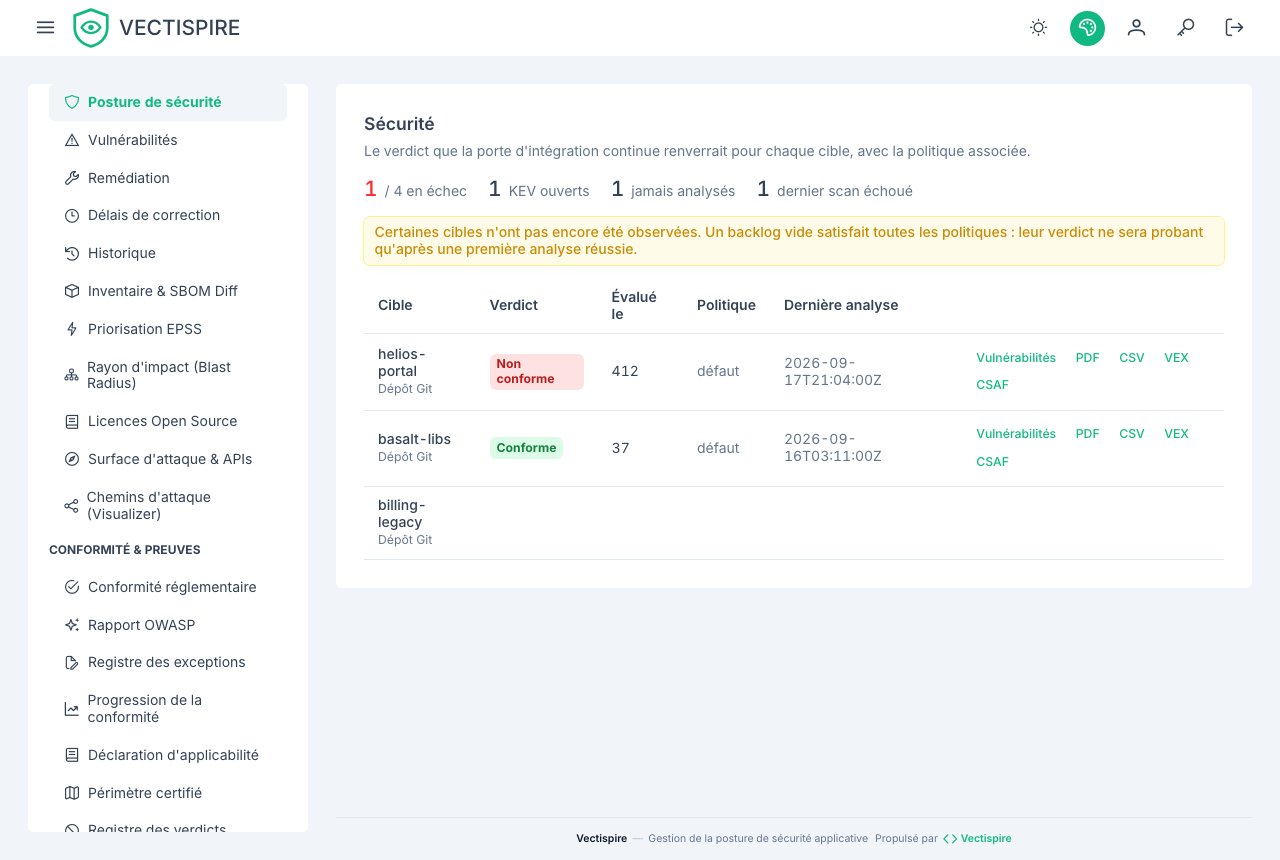
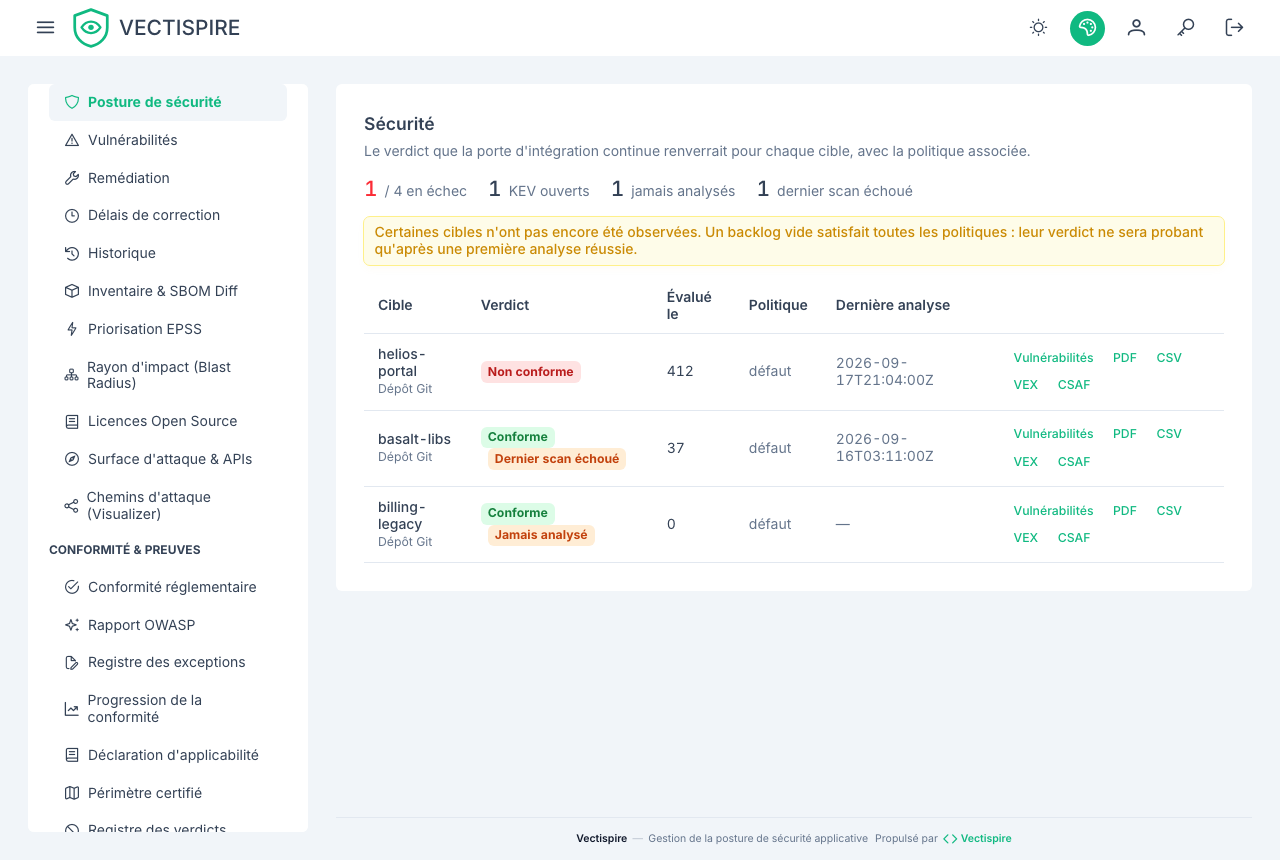
docs(screens): containers, quality and gate policies — and a fixture that lied
Three screens the documentation described and never showed. Each fixture is built
around the one case the screen exists to handle, because a capture of the easy case
photographs the argument out of the page:

- **containers** — one image pinned by digest, because the shortening only exists for
  that case: sixty characters of hexadecimal push every other field off the card.
- **code quality** — coverage is `PARTIAL`, so the banner is visible. A quality backlog
  is only as complete as the languages somebody wrote rules for, and TypeScript having
  none is what a reader should learn here rather than discover later. Reached by
  clicking the backlog total, because the sidebar does not offer this screen.
- **gate policies** — the stored policy departs from the built-in on two flags. Showing
  both is the only place "not set" and "set to the same thing" can be told apart.

**The security overview fixture was wrong, and the capture showed it.** It sent
`NEVER_SCANNED` and invented `FRESH` and `STALE`; the server lowercases every constant
and has only four. `SecurityOverviewView` says so in as many words, and warns that a
client comparing against `never_scanned` matches nothing and renders its fallback — it
did, and the never-scanned target was published badged "scan in progress". The fixture
also sent `verdict: null`, which no target ever carries: the server evaluates a policy
against an empty backlog rather than skipping it, and the row that received null
[…]

diff --git a/vectispire-angular/e2e/screens.spec.ts b/vectispire-angular/e2e/screens.spec.ts
@@ -523,30 +523,170 @@ test.describe('documentation screenshots', () => {
             await shoot(page, 'repositories', locale);
         });
 
+        test('containers', async ({ page }, testInfo) => {
+            const locale = edition(testInfo.project.name);
+            await stubEverything(page);
+            // One image pinned by digest, because the shortening only exists for that case: sixty
+            // characters of hexadecimal push every other field off the card, and a capture of
+            // three tag-pinned images would show a screen that never has to deal with it.
+            await stub(page, '**/api/v1/containers*', [
+                { id: 3, imageName: 'registry.example/api', tag: '1.4',
+                  reference: 'registry.example/api:1.4', registry: 'registry.example',
+                  openIssues: 58, tier: 'TIER_1_MISSION_CRITICAL',
+                  scanIntervalMinutes: 720, scanCron: null, requiredAgentLabel: null,
+                  lastScheduledScanAt: '2026-09-17T18:00:00Z',
+                  lastScan: { id: 32, status: 'completed', createdAt: '2026-09-17T18:06:00Z', error: null } },
+                { id: 4, imageName: 'registry.example/nginx-edge', tag: 'sha256:9f2c1d4b7a03e85f6c2b9d10a47e3f8521bc60d9e7a4f31682c5b0ad9e14f7c3',
+                  reference: 'registry.example/nginx-edge@sha256:9f2c1d4b7a03e85f6c2b9d10a47e3f8521bc60d9e7a4f31682c5b0ad9e14f7c3',
+                  registry: 'registry.example', openIssues: 0, tier: 'TIER_2_BUSINESS_OPERATIONAL',
+                  scanIntervalMinutes: null, scanCron: '0 4 * * *', requiredAgentLabel: 'dmz',
+                  lastScheduledScanAt: '2026-09-18T04:00:00Z',
+                  lastScan: { id: 35, status: 'completed', createdAt: '2026-09-18T04:03:00Z', error: null } },
+                { id: 5, imageName: 'registry.example/batch-runner', tag: '2026.09',
+                  reference: 'registry.example/batch-runner:2026.09', registry: 'registry.example',
+                  openIssues: 12, tier: 'TIER_3_INTERNAL',
+                  scanIntervalMinutes: null, scanCron: null, requiredAgentLabel: null,
+                  lastScheduledScanAt: null,
+                  lastScan: { id: 31, status: 'failed', createdAt: '2026-09-16T11:20:00Z',
+                              error: 'manifest unknown' } }
+            ]);
+            await enterApp(page, locale);
+            await openScreen(page, '/containers');
+
+            await expect(page.getByText('registry.example/batch-runner').first()).toBeVisible({ timeout: 15_000 });
+            await shoot(page, 'containers', locale);
+        });
+
+        test('code quality', async ({ page }, testInfo) => {
+            const locale = edition(testInfo.project.name);
+            await stubEverything(page);
+            // **Partial coverage, not full.** The banner is the screen's one warning, and a capture
+            // taken over a covered estate would hide it: a quality backlog is only as complete as
+            // the languages somebody wrote rules for, and TypeScript having none is exactly the
+            // thing a reader should learn here rather than discover later.
+            await stub(page, '**/api/v1/rule-sets/coverage', {
+                state: 'PARTIAL', ruleFiles: 12,
+                languagesWithRules: ['java', 'python'],
+                ecosystemsInEstate: ['java', 'python', 'typescript'],
+                uncovered: ['typescript']
+            });
+            // The three tallies are deliberately top-heavy. "Eight rules account for most of the
+            // debt" is the framing this page exists for, and a flat distribution would illustrate
+            // the opposite of its argument.
+            await stub(page, '**/api/v1/quality/overview', {
+                openCount: 1432, ruleCount: 47, fileCount: 318,
+                topRules: [
+                    { label: 'java.lang.security.audit.formatted-sql-string', count: 212 },
+                    { label: 'python.lang.correctness.unchecked-subprocess', count: 164 },
+                    { label: 'java.lang.maintainability.dead-catch-block', count: 121 },
+                    { label: 'generic.secrets.hardcoded-token', count: 38 }
+                ],
+                topFiles: [
+                    { label: 'src/main/java/portal/LegacyQueryBuilder.java', count: 96 },
+                    { label: 'src/main/java/portal/ReportExporter.java', count: 71 },
+                    { label: 'scripts/migrate_accounts.py', count: 44 },
+                    { label: 'src/main/java/portal/AuditTrail.java', count: 22 }
+                ],
+                topTargets: [
+                    { label: 'helios-portal', count: 731 },
+                    { label: 'basalt-libs', count: 402 },
+                    { label: 'billing-legacy', count: 299 }
+                ]
+            });
+            await stub(page, '**/api/v1/dashboard', {
+                posture: { totalCount: 14, failingCount: 3, kevCount: 2, overdueCount: 5,
+                           neverScannedCount: 1, lastScanFailedCount: 1 },
+                backlogBySeverity: { CRITICAL: 4, HIGH: 12, MEDIUM: 31, LOW: 365 },
+                qualityTotal: 1432, failing: [], recentScans: []
+            });
+            await enterApp(page, locale);
+            // **Through the dashboard, because the sidebar does not offer this screen.** Quality
+            // is reached from the backlog card's quality total and from nowhere else, so a capture
+            // that clicked a menu entry would be asserting a route that no reader can take.
+            //
+            // And not through `openScreen`, because that link carries no `href`: written
+            // `routerLink="/quality"` rather than `[routerLink]="['/quality']"`, it navigates on
+            // click and renders no address. Clicking the total is what a reader does; the URL
+            // assertion below is what keeps this honest if the route is ever renamed.
+            await openScreen(page, '/dashboard');
+            await page.getByText('1432').first().click();
+            await expect(page).toHaveURL(/\/quality(\?|$)/, { timeout: 15_000 });
+
+            await expect(page.getByText('1432').first()).toBeVisible({ timeout: 15_000 });
+            await shoot(page, 'code-quality', locale);
+        });
+
+        test('gate policies', async ({ page }, testInfo) => {
+            const locale = edition(testInfo.project.name);
+            await stubEverything(page);
+            // **The stored policy departs from the built-in on two flags, and that is the point of
+            // the fixture.** Identical cards would photograph the screen's argument out of it:
+            // showing both is the only place "not set" and "set to the same thing" can be told
+            // apart, and a capture where they read alike demonstrates nothing.
+            await stub(page, '**/api/v1/gate/policies', {
+                policies: [
+                    { kind: 'global', target_id: null, target_name: null, version: 4,
+                      fail_on_severity: 'high', fail_on_kev: true, fixable_only: true,
+                      include_triaged: false, include_ai_review: false,
+                      fail_on_uncovered_languages: false,
+                      note: 'criticals in transitive dependencies were failing every build and teams had started bypassing the gate',
+                      created_by: 'c.moreau', created_at: '2026-08-02T09:12:00Z' },
+                    { kind: 'repository', target_id: 5, target_name: 'helios-portal', version: 2,
+                      fail_on_severity: 'medium', fail_on_kev: true, fixable_only: false,
+                      include_triaged: false, include_ai_review: false,
+                      fail_on_uncovered_languages: false,
+                      note: 'Tier 1 payment path, held above the estate bar for the quarter',
+                      created_by: 'c.moreau', created_at: '2026-09-04T16:40:00Z' }
+                ],
+                built_in: { kind: 'built-in', target_id: null, target_name: null, version: 0,
+                            fail_on_severity: 'high', fail_on_kev: true, fixable_only: false,
+                            include_triaged: false, include_ai_review: false,
+                            fail_on_uncovered_languages: false, note: null,
+                            created_by: null, created_at: null }
+            });
+            await enterApp(page, locale);
+            await openScreen(page, '/gate-policies');
+
+            await expect(page.getByText('helios-portal').first()).toBeVisible({ timeout: 15_000 });
+            await shoot(page, 'gate-policies', locale);
+        });
+
         test('security overview', async ({ page }, testInfo) => {
             const locale = edition(testInfo.project.name);
             await stubEverything(page);
             // The two cases no other screen names: a target never scanned, and one whose last scan
             // failed. Both are green everywhere else, which is the point of this page.
+            //
+            // **Shaped as `SecurityOverviewView` writes it, which the first version was not.**
+            // That fixture sent `NEVER_SCANNED` and invented `FRESH` and `STALE`; the server
+            // lowercases every constant and has only four — the view class says so in as many
+            // words, and warns that a client comparing against `never_scanned` matches nothing
+            // and renders its fallback. It did: the never-scanned target was captured badged
+            // "scan in progress". It also sent `verdict: null`, which no target ever carries —
+            // the server evaluates a policy against an empty backlog rather than skipping it —
+            // and the row that received it rendered as a line of blanks.
             await stub(page, '**/api/v1/security/overview*', {
                 totalCount: 4, failingCount: 1, kevCount: 1,
                 neverScannedCount: 1, lastScanFailedCount: 1,
                 targets: [
                     { targetId: 5, kind: 'repository', name: 'helios-portal', observed: true,
                       passed: false, lastScanAt: '2026-09-17T21:04:00Z', lastScanId: 34,
-                      observation: 'FRESH',
+                      observation: 'ok',
                       policy: { source: 'built-in', version: null },
                       verdict: { passed: false, evaluated: 412, violations: [],
                                  countsBySeverity: { CRITICAL: 1, HIGH: 3 } } },
-                    { targetId: 6, kind: 'repository', name: 'basalt-libs', observed: true,
+                    { targetId: 6, kind: 'repository', name: 'basalt-libs', observed: false,
                       passed: true, lastScanAt: '2026-09-16T03:11:00Z', lastScanId: 30,
-                      observation: 'STALE',
+                      observation: 'last_scan_failed',
                       policy: { source: 'built-in', version: null },
                       verdict: { passed: true, evaluated: 37, violations: [], countsBySeverity: {} } },
+                    // Passing on nothing at all: the empty backlog that satisfies every policy,
+                    // which is the whole reason the observation column exists.
                     { targetId: 7, kind: 'repository', name: 'billing-legacy', observed: false,
                       passed: true, lastScanAt: null, lastScanId: null,
-                      observation: 'NEVER_SCANNED',
-                      policy: { source: 'built-in', version: null }, verdict: null }
+                      observation: 'never_scanned',
+                      policy: { source: 'built-in', version: null },
+                      verdict: { passed: true, evaluated: 0, violations: [], countsBySeverity: {} } }
                 ]
             });
             await enterApp(page, locale);

diff --git a/docs-site/guide/quality.fr.md b/docs-site/guide/quality.fr.md
@@ -13,6 +13,8 @@ La raison vaut d'être dite. Une barrière qui peut échouer sur du style est un
 sécurité cesse elle aussi de fonctionner. Le backlog de qualité est là pour être lu et traité,
 pas pour bloquer une livraison.
 
+![La vue Qualité : le bandeau qui dit que ces constats ne font jamais échouer une construction, et le backlog classé par règle, par fichier et par dépôt.](../assets/screens/fr/code-quality.png)
+
 ## La section Qualité
 
 Classée de trois façons, parce que la question utile diffère selon qui la pose :

diff --git a/docs-site/guide/containers.fr.md b/docs-site/guide/containers.fr.md
@@ -7,6 +7,8 @@ Préférez une empreinte quand vous le pouvez. Un tag est mutable : un verdict e
 `monapp:latest` est un verdict sur ce que `latest` désignait au moment du scan, ce qui n'est
 pas un fait sur lequel quiconque peut agir une semaine plus tard.
 
+![Les images surveillées : une épinglée par empreinte et abrégée, une par tag, une dont le dernier tirage a échoué.](../assets/screens/fr/containers.png)
+
 ## Ce qui est contrôlé
 
 L'image est cataloguée par Syft et rapprochée par Grype exactement comme un dépôt : mêmes

diff --git a/docs-site/guide/quality.md b/docs-site/guide/quality.md
@@ -12,6 +12,8 @@ The reason is worth stating. A gate that can fail on style is a gate that teams 
 bypass, and once bypassing is routine the security half stops working too. The quality
 backlog is there to be read and worked through, not to block a release.
 
+![The quality view: the banner saying these findings never fail a build, and the backlog ranked by rule, file and repository.](../assets/screens/en/code-quality.png)
+
 ## The Quality section
 
 Ranked three ways, because the useful question differs by who is asking:

diff --git a/docs-site/administration/gate-policies.fr.md b/docs-site/administration/gate-policies.fr.md
@@ -29,6 +29,8 @@ Là où rien n'est stocké, un défaut intégré s'applique. L'écran le montre 
 vous avez stocké, pour que « non posé » et « posé à la même valeur » ne se ressemblent pas :
 ils se comportent identiquement aujourd'hui et divergent à l'instant où le défaut change.
 
+![La politique stockée et le défaut intégré à côté d'elle, avec une cible tenue au-dessus de la barre du parc.](../assets/screens/fr/gate-policies.png)
+
 ## Ce qu'une politique règle
 
 | | |

diff --git a/docs-site/guide/containers.md b/docs-site/guide/containers.md
@@ -7,6 +7,8 @@ Prefer a digest where you can. A tag is mutable, so a verdict recorded against
 `myapp:latest` is a verdict about whatever `latest` meant at the moment of the scan, which
 is not a fact anybody can act on a week later.
 
+![Monitored images: one pinned by digest and shortened, one by tag, one whose last pull failed.](../assets/screens/en/containers.png)
+
 ## What is checked
 
 The image is catalogued by Syft and matched by Grype exactly as a repository is: same

diff --git a/docs-site/administration/gate-policies.md b/docs-site/administration/gate-policies.md
@@ -25,6 +25,8 @@ Where nothing is stored, a built-in default applies. The screen shows it **besid
 you have stored, so that "not set" and "set to the same thing" do not look alike — they
 behave identically today and diverge the moment the default changes.
 
+![The stored policy and the built-in beside it, with one target held above the estate bar.](../assets/screens/en/gate-policies.png)
+
 ## What a policy sets
 
 | | |
